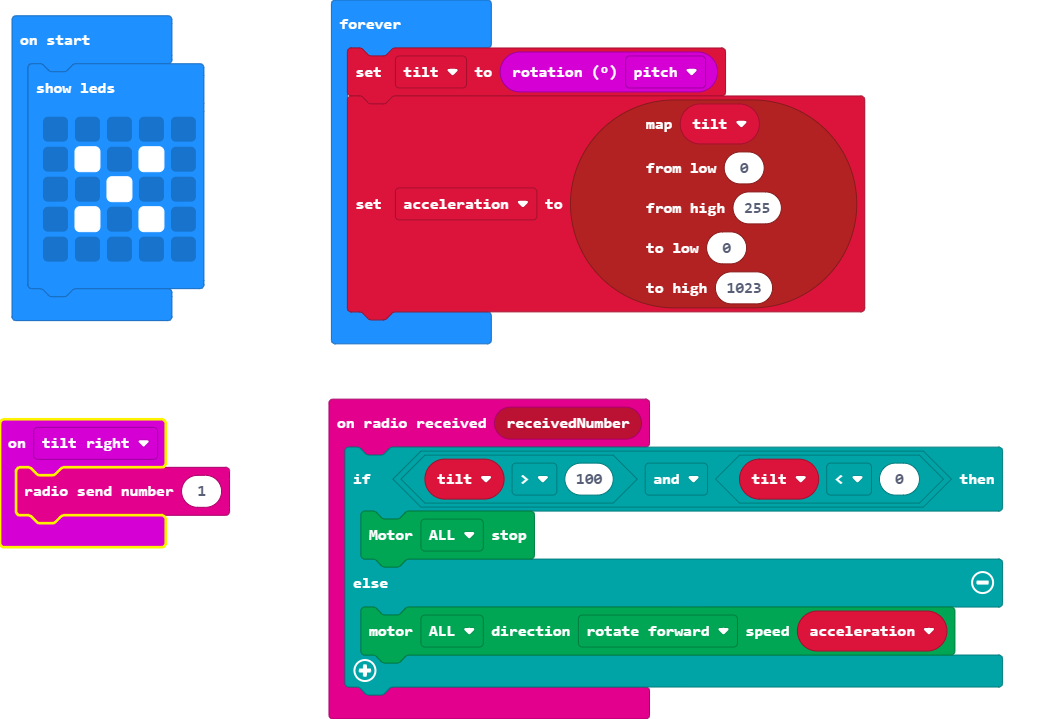
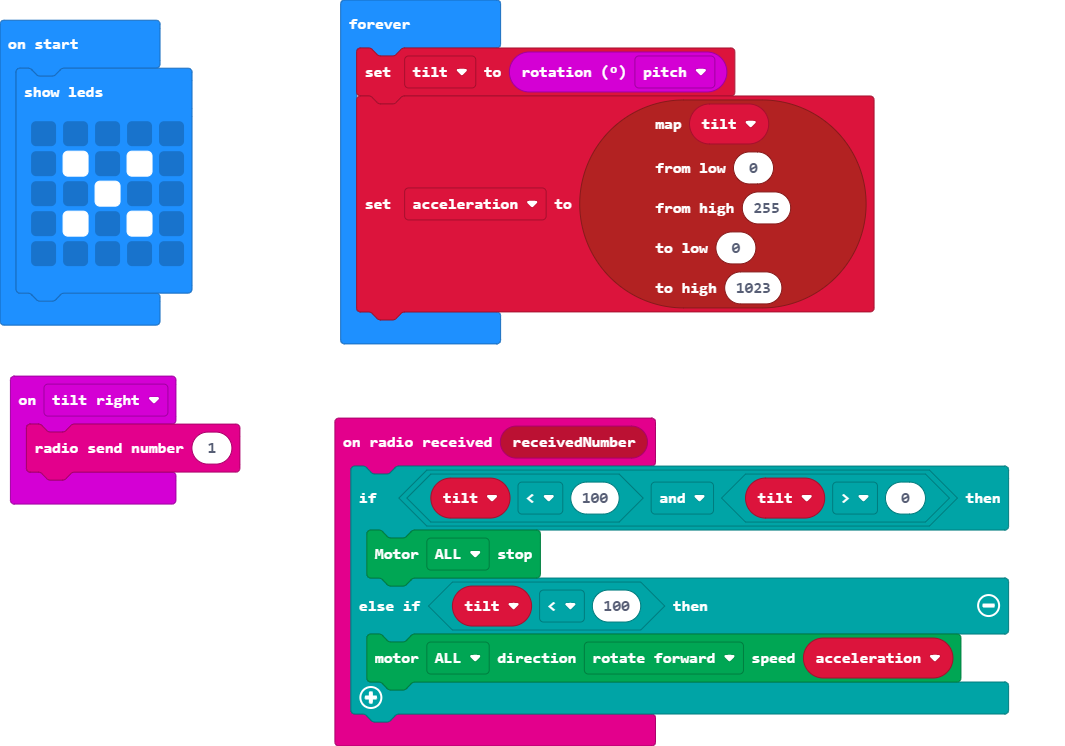
Update pxt.json, main.blocks, main.ts

diff --git a/main.ts b/main.ts
@@ -1,7 +1,7 @@
 radio.onReceivedNumber(function (receivedNumber) {
-    if (tilt > 100 && tilt < 0) {
+    if (tilt < 100 && tilt > 0) {
         DFRobotMaqueenPlus.mototStop(Motors.ALL)
-    } else {
+    } else if (tilt < 100) {
         DFRobotMaqueenPlus.mototRun(Motors.ALL, Dir.CW, acceleration)
     }
 })
